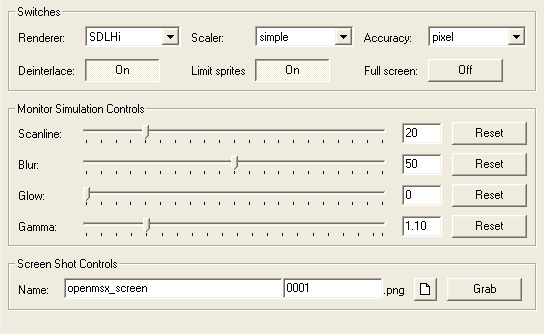
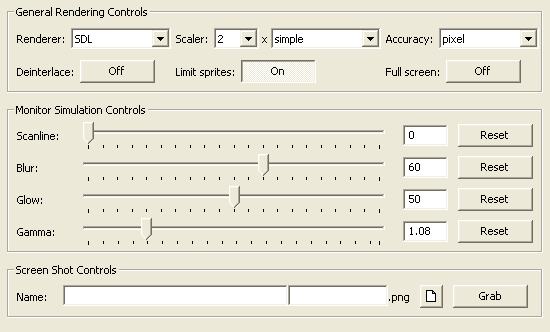
Update manual screenshots, thanks to Daniel Vik
git-svn-id: file:///openmsx-svn/code/wxcatapult/trunk@9127 7512d703-071c-0410-b5c2-d2bdd895b7d1

Changed region(s): [[0.0, 0.0301, 1.0, 0.9639]]

diff --git a/doc/manual/user.html b/doc/manual/user.html
@@ -197,7 +197,7 @@ After you press the OK button, Catapult's main screen appears, as shown in the p
 </p>
 
 <p class="image">
-<img src="mainscreen.png" width="555" height="465" alt="Main Screen"></img>
+<img src="mainscreen.png" width="562" height="463" alt="Main Screen"></img>
 </p>
 
 <h2><a id="tour">3. A Quick Tour</a></h2>
@@ -300,7 +300,7 @@ still be easily recognisable.
 </p>
 
 <p class="image">
-<img src="session.png" width="541" height="334" alt="Session Page"></img>
+<img src="session.png" width="550" height="332" alt="Session Page"></img>
 </p>
 
 <h3><a id="hardware">4.1. Selecting Hardware</a></h3>
@@ -523,7 +523,7 @@ If openMSX is not running, all controls will be disabled.
 </p>
 
 <p class="image">
-<img src="video.png" width="544" height="334" alt="Video Control Page"></img>
+<img src="video.png" width="550" height="332" alt="Video Control Page"></img>
 </p>
 
 <p>
@@ -531,7 +531,7 @@ In the top-left corner, you can select which renderer is used by openMSX.
 </p>
 
 <p>
-With the top-centre control you can select which scaler should be used. You can select both the scaling factor and the scaling algorithm.
+With the top-centre controls you can select which scaler should be used. You can select both the scaling factor and the scaling algorithm.
 Scalers only work if the renderer is set to SDL and determine how the picture 
 is scaled to higher resolutions than 320&times;240 (if you use a factor greater than 1). Beware that some scalers can be really slow. The 
 algorithms are sometimes quite complex.
@@ -841,7 +841,7 @@ bug or request.
 </p>
 
 <p class="version">
-$Id: user.html,v 1.14 2005/12/30 22:52:15 manuelbi Exp $
+$Id: user.html,v 1.15 2005/12/30 23:00:33 manuelbi Exp $
 </p>
 
 </body>
